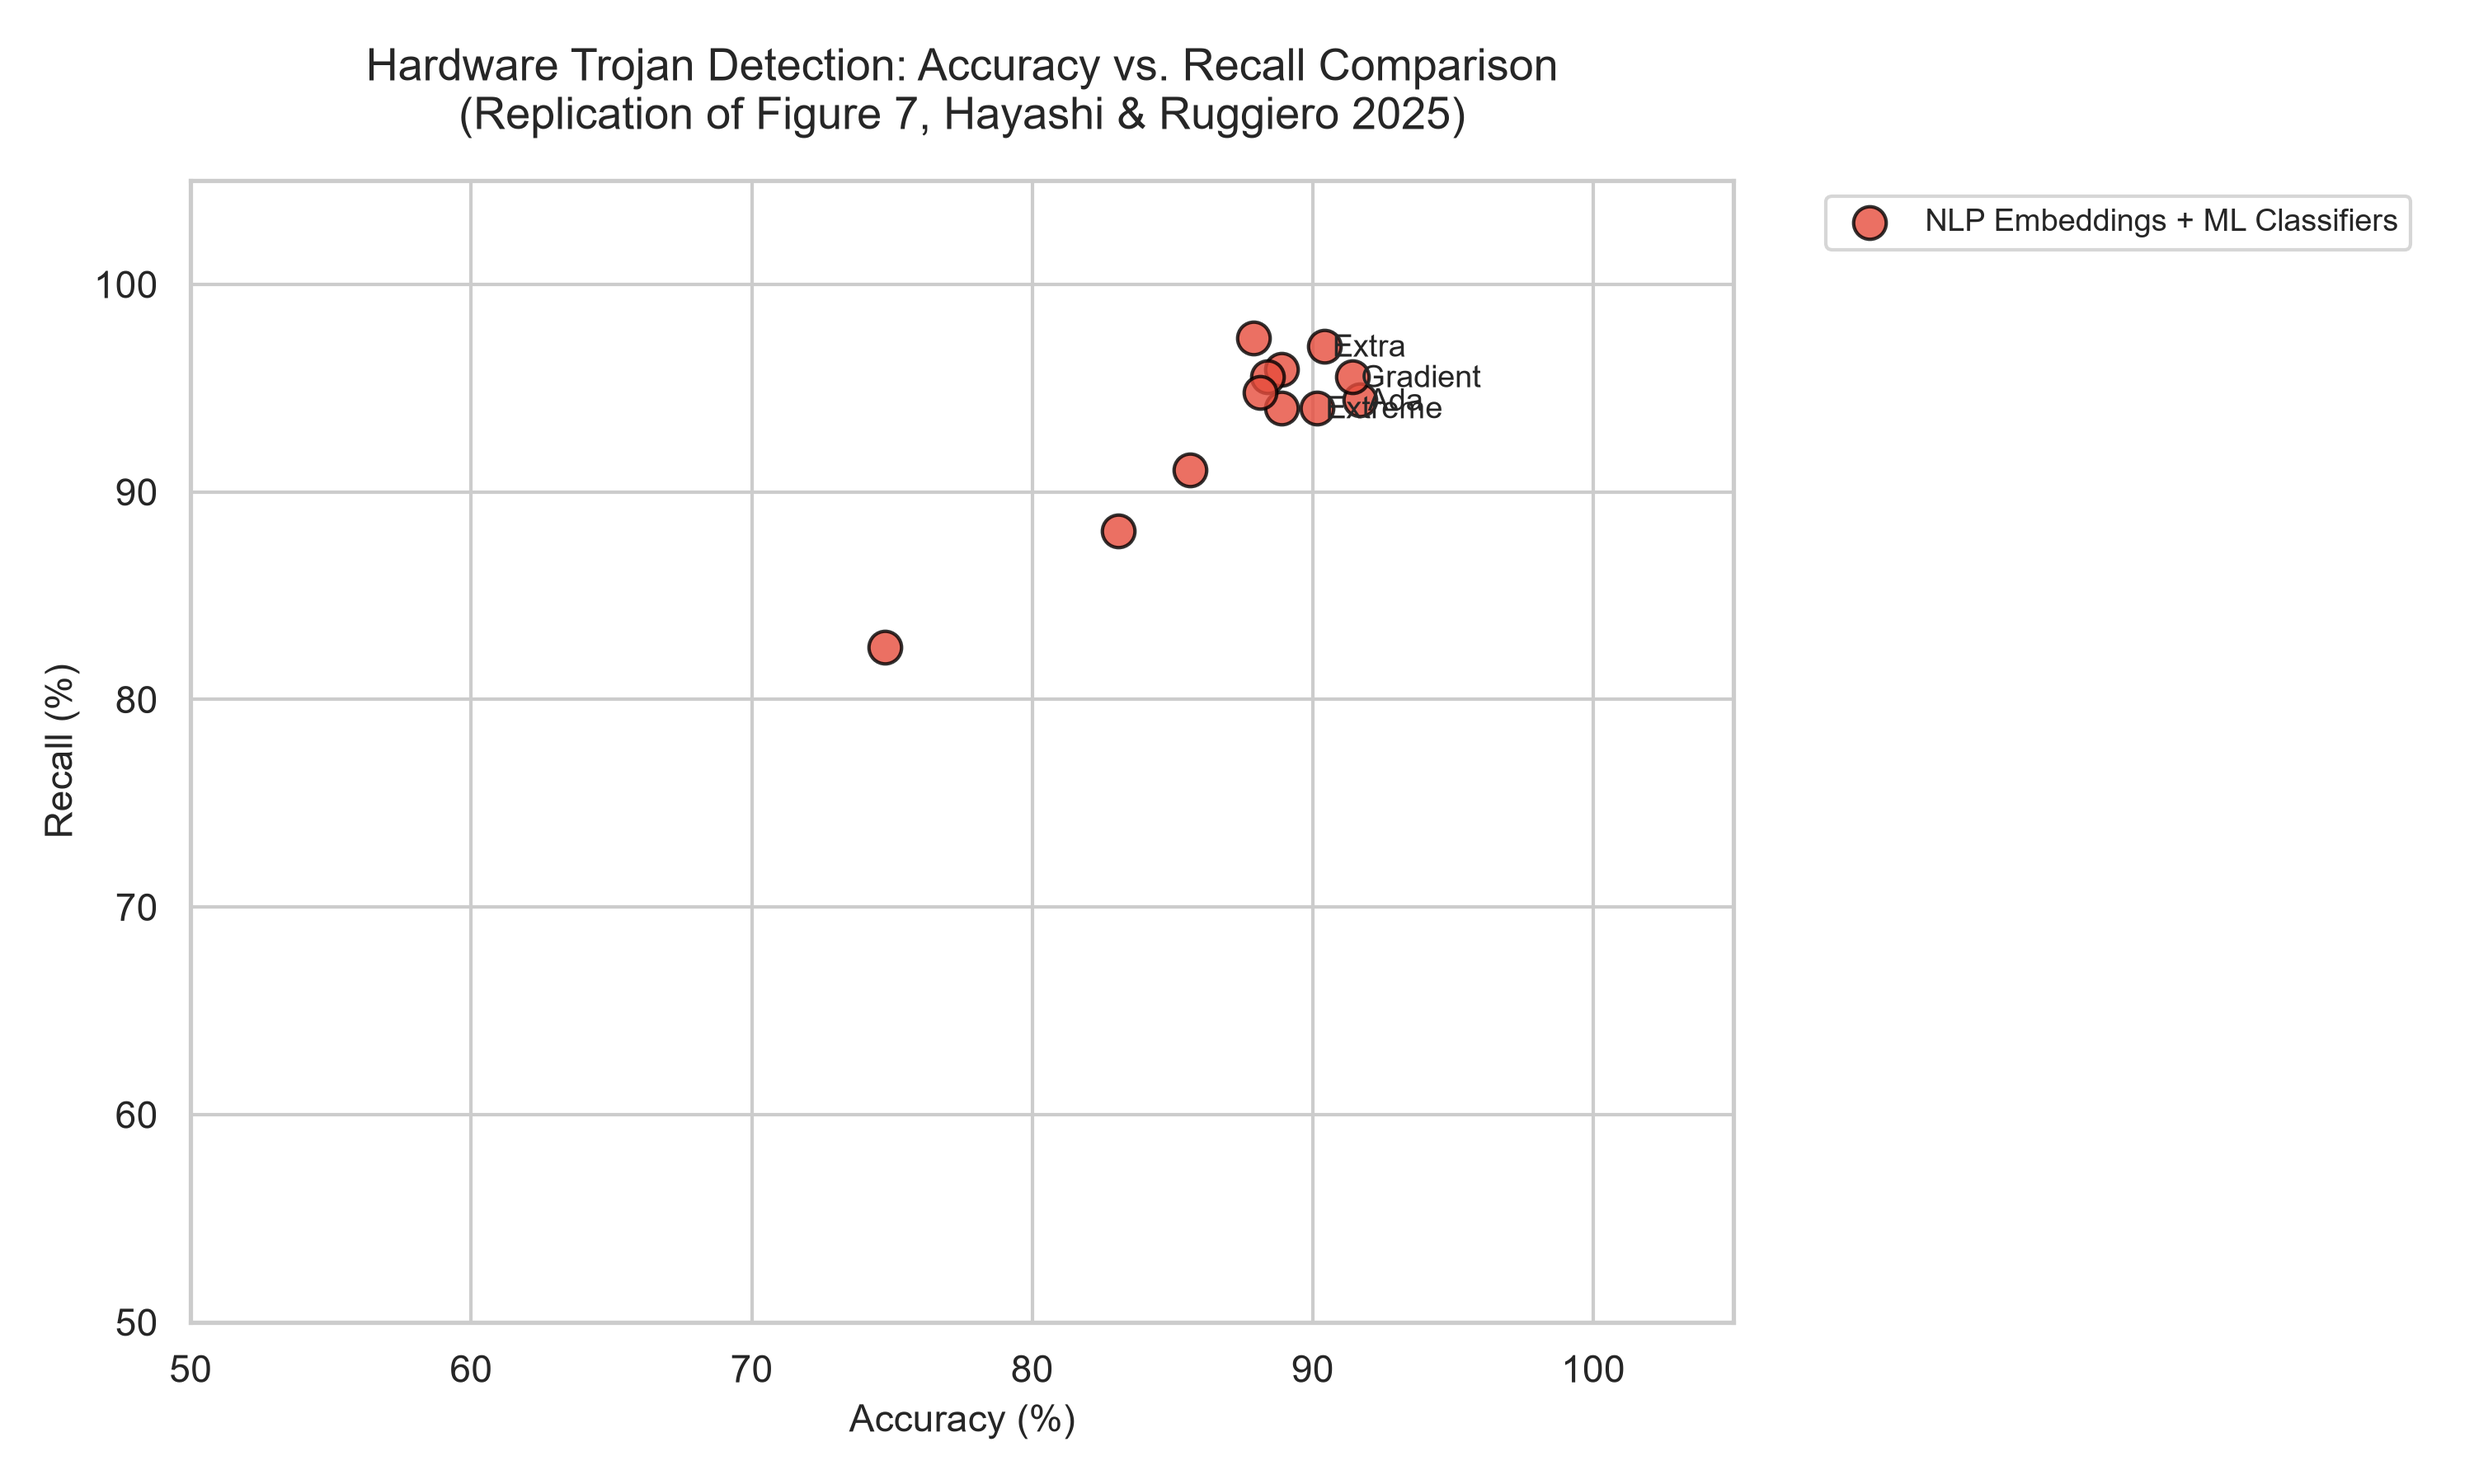
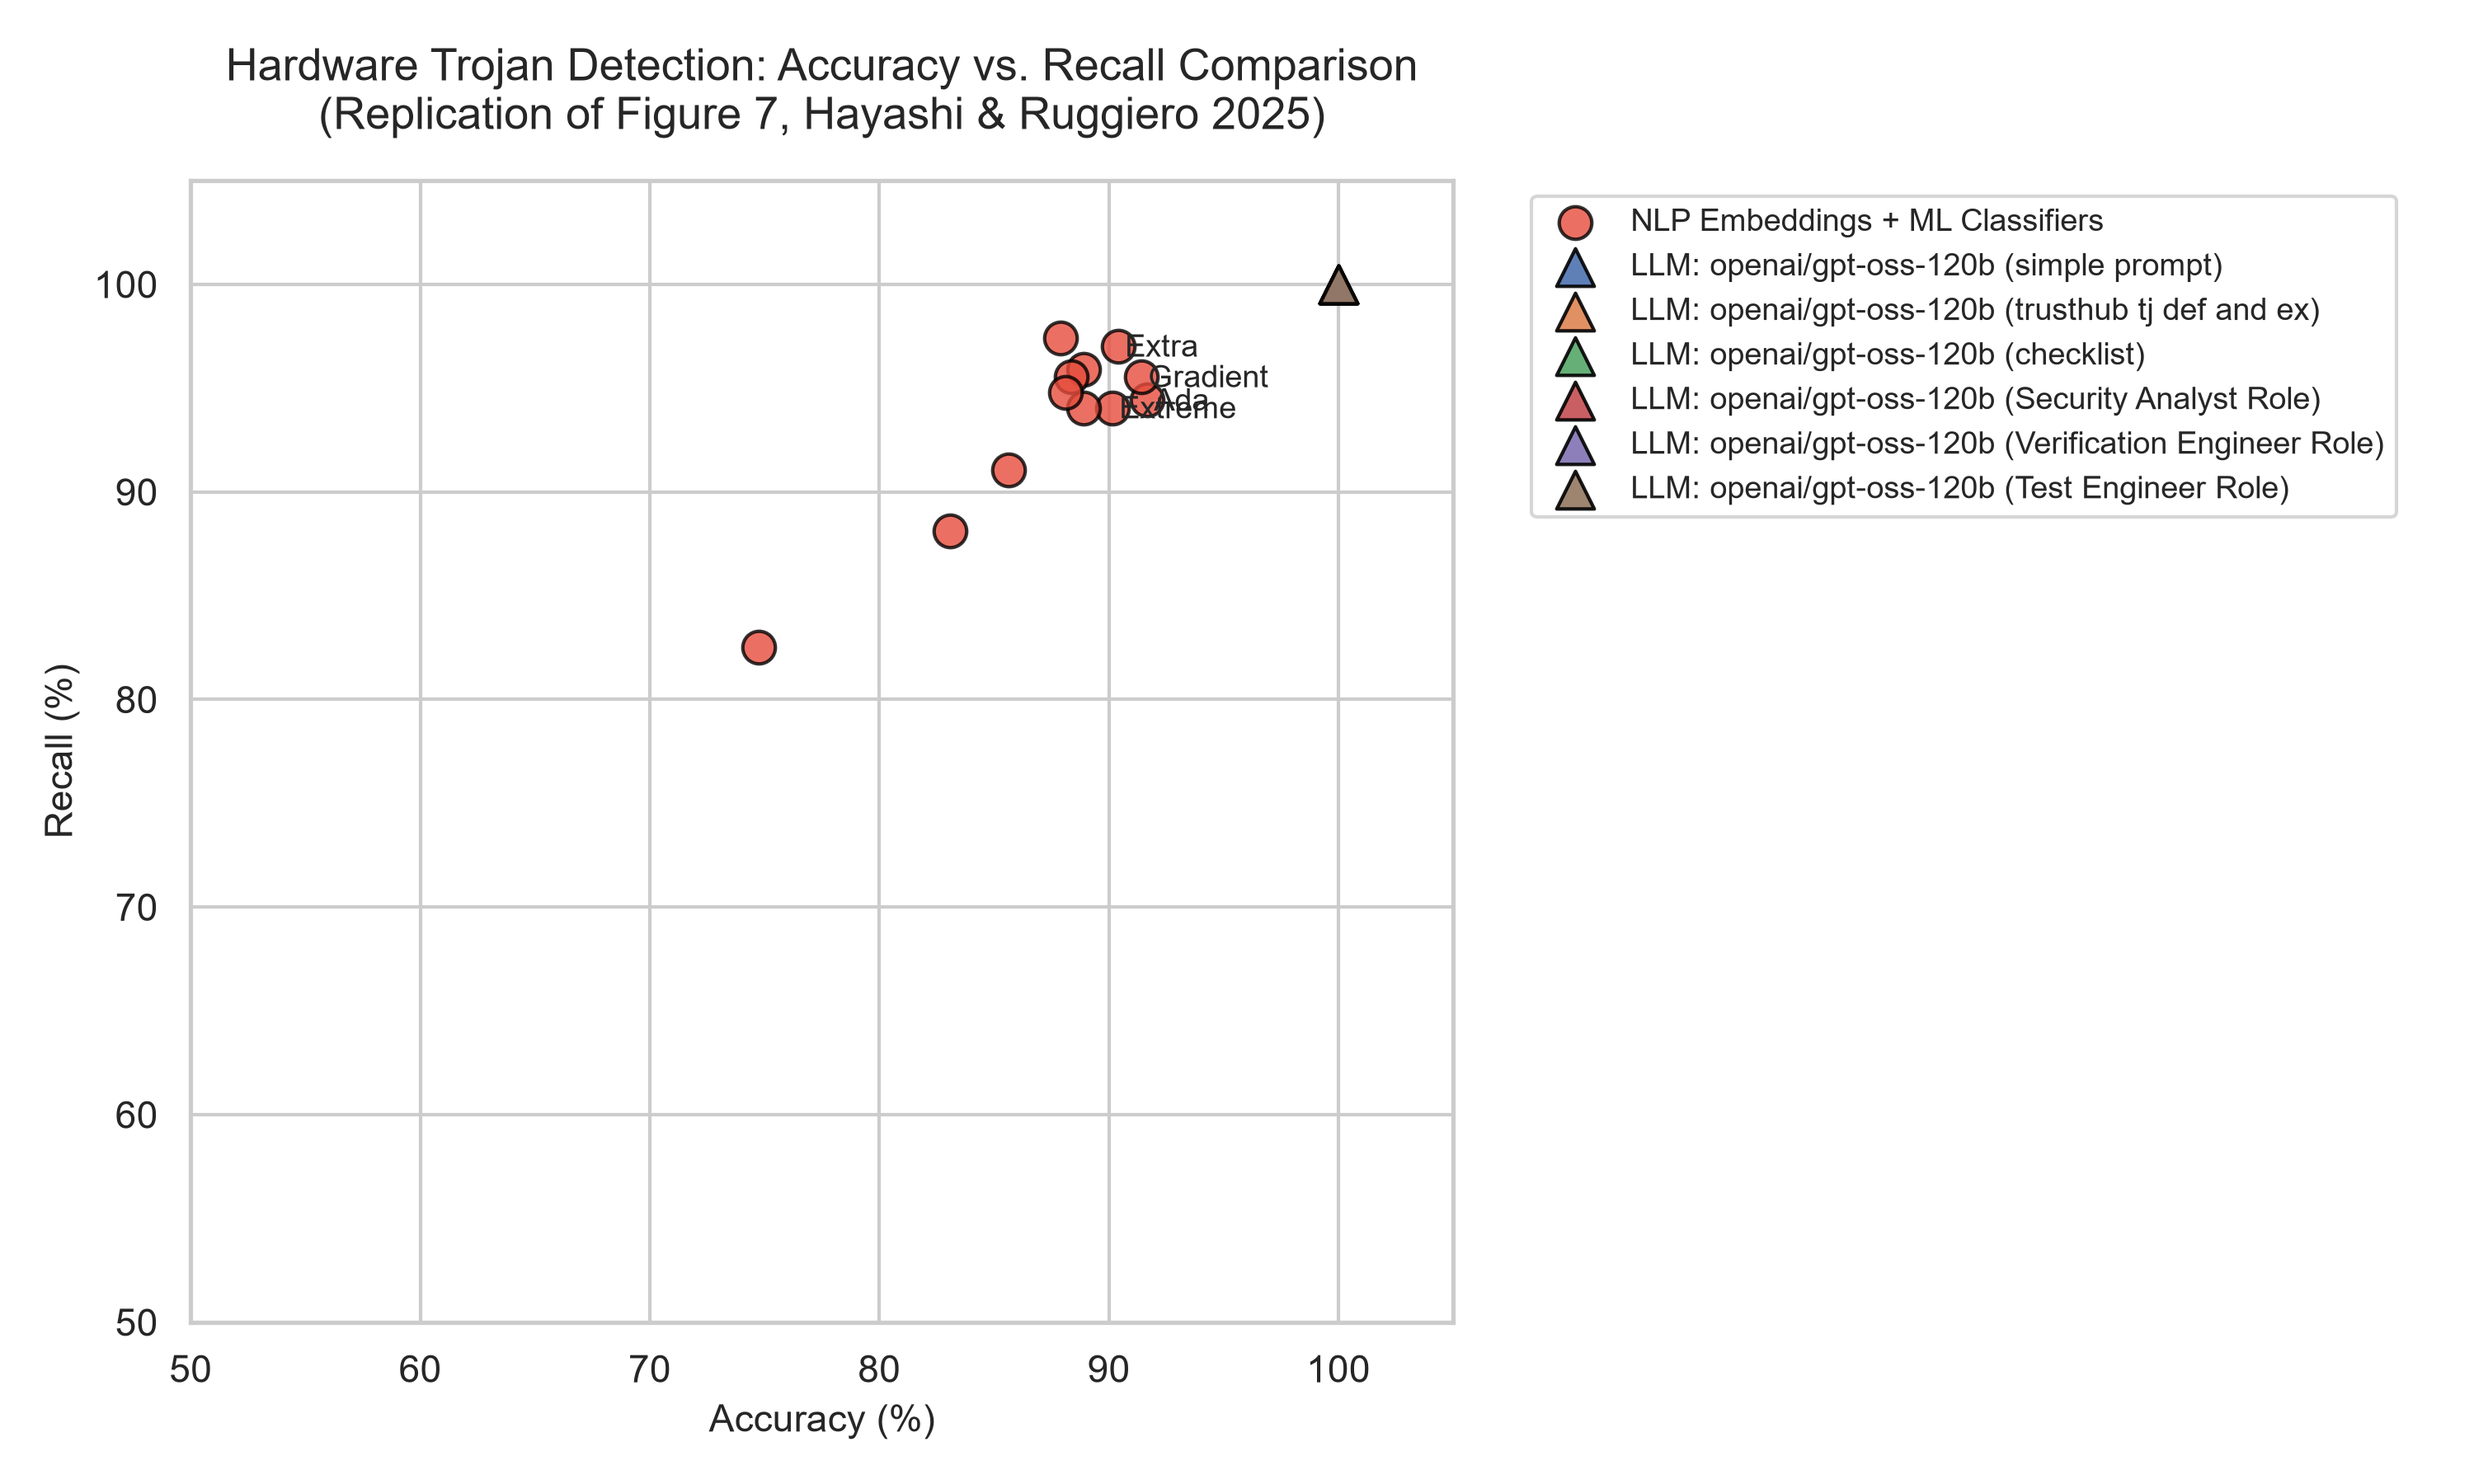
Add Groq 120B LLM evaluation results and update Figure 7 plot

diff --git a/code/src/llm_eval/evaluator.py b/code/src/llm_eval/evaluator.py
@@ -5,13 +5,18 @@ Implements and evaluates the 4 prompt strategies from Appendix A:
 2. TrustHub Definition & Example
 3. Checklist-Based Review (ISO/IEC 20246:2017)
 4. Role-Playing / Perspective-Based Review (Security Analyst, Verification Eng, Test Eng)
+
+Supports local Ollama as well as cloud OpenAI-compatible APIs (e.g., Groq).
 """
 
+import os
 import re
-from typing import Dict, List, Tuple, Any
+import time
+from pathlib import Path
+from typing import Dict, Any, Optional
 import pandas as pd
 import requests
-from sklearn.metrics import accuracy_score, recall_score, precision_score, f1_score
+from sklearn.metrics import accuracy_score, recall_score, precision_score, f1_score, balanced_accuracy_score
 from tabulate import tabulate
 
 from src.llm_eval.prompts import (
@@ -27,86 +32,153 @@ from src.llm_eval.prompts import (
 )
 
 
+def _load_dotenv():
+    """Loads .env from current or parent directory if present."""
+    for env_path in (Path(".env"), Path("../.env")):
+        if env_path.exists():
+            for line in env_path.read_text(encoding="utf-8", errors="ignore").splitlines():
+                line = line.strip()
+                if line and not line.startswith("#") and "=" in line:
+                    k, v = line.split("=", 1)
+                    os.environ.setdefault(k.strip(), v.strip())
+
+
+def _parse_binary_prediction(content: str) -> Optional[int]:
+    """Extracts 0 or 1 cleanly from an LLM response."""
+    text = content.strip()
+    if text in ("0", "1"):
+        return int(text)
+    numbers = re.findall(r"\b[01]\b", text)
+    if numbers:
+        return int(numbers[-1])
+    low = text.lower()
+    if "no trojan" in low or "clean" in low or "benign" in low:
+        return 0
+    if "trojan" in low or "malicious" in low:
+        return 1
+    return None
+
+
 class LLMEvaluator:
     def __init__(
-        self, 
-        model_name: str = "qwen2.5:3b", 
-        host: str = "http://localhost:11434"
+        self,
+        model_name: str = "qwen2.5:3b",
+        provider: str = "ollama",
+        host: str = "http://localhost:11434",
+        api_key: Optional[str] = None,
+        max_code_chars: int = 12000,
     ):
+        _load_dotenv()
         self.model_name = model_name
-        self.api_url = f"{host}/api/chat"
+        self.provider = provider.lower()
+        self.max_code_chars = max_code_chars
 
-    def predict_single(self, system_prompt: str, user_prompt: str) -> int:
-        """
-        Sends code + prompt to local Ollama and extracts binary 0 or 1 classification.
-        """
+        if self.provider == "groq":
+            self.api_url = "https://api.groq.com/openai/v1/chat/completions"
+            self.api_key = api_key or os.environ.get("GROQ_API_KEY", "")
+            if not self.api_key:
+                raise ValueError("GROQ_API_KEY not found in environment or .env")
+        elif self.provider == "openai":
+            self.api_url = f"{host.rstrip('/')}/v1/chat/completions"
+            self.api_key = api_key or os.environ.get("OPENAI_API_KEY", "")
+        else:
+            self.api_url = f"{host.rstrip('/')}/api/chat"
+            self.api_key = ""
+
+    def _call_api(self, system_prompt: str, user_prompt: str, max_retries: int = 6) -> str:
+        """Calls the configured LLM backend with automatic 429 rate-limit backoff."""
+        if self.provider in ("groq", "openai"):
+            headers = {
+                "Authorization": f"Bearer {self.api_key}",
+                "Content-Type": "application/json",
+            }
+            payload = {
+                "model": self.model_name,
+                "messages": [
+                    {"role": "system", "content": system_prompt},
+                    {"role": "user", "content": user_prompt},
+                ],
+                "temperature": 0.0,
+                "max_tokens": 256,
+            }
+            for attempt in range(max_retries):
+                resp = requests.post(self.api_url, headers=headers, json=payload, timeout=60)
+                if resp.status_code == 429:
+                    wait = float(resp.headers.get("Retry-After", 10 + 5 * attempt))
+                    time.sleep(min(wait, 65))
+                    continue
+                resp.raise_for_status()
+                # Proactive pacing if remaining tokens are below 2,000
+                rem_tok = resp.headers.get("x-ratelimit-remaining-tokens")
+                if rem_tok is not None and int(rem_tok) < 2000:
+                    time.sleep(8)
+                return resp.json()["choices"][0]["message"].get("content", "") or ""
+            raise RuntimeError("Exceeded max retries due to rate limiting (429).")
+
+        # Local Ollama
         payload = {
             "model": self.model_name,
             "messages": [
                 {"role": "system", "content": system_prompt},
-                {"role": "user", "content": user_prompt}
+                {"role": "user", "content": user_prompt},
             ],
             "stream": False,
-            "options": {
-                "temperature": 0.0, # Deterministic zero-shot classification
-            }
+            "options": {"temperature": 0.0},
         }
+        resp = requests.post(self.api_url, json=payload, timeout=90)
+        resp.raise_for_status()
+        return resp.json().get("message", {}).get("content", "")
 
+    def predict_single(self, system_prompt: str, user_prompt: str) -> int:
+        """Sends code + prompt to the LLM and extracts binary 0 or 1 classification."""
         try:
-            response = requests.post(self.api_url, json=payload, timeout=60)
-            response.raise_for_status()
-            content = response.json().get("message", {}).get("content", "").strip()
-
-            # Parse integer 0 or 1 from response
-            numbers = re.findall(r"\b[01]\b", content)
-            if numbers:
-                return int(numbers[-1])
-            # Fallback heuristic: check keywords
-            if "1" in content or "trojan" in content.lower() or "malicious" in content.lower():
-                return 1
-            return 0
+            content = self._call_api(system_prompt, user_prompt)
+            parsed = _parse_binary_prediction(content)
+            return parsed if parsed is not None else 0
         except Exception as e:
-            print(f"[LLM Evaluator] Request error: {e}")
+            print(f"\n[LLM Evaluator] Request error: {e}")
             return 0
 
     def evaluate_strategy(
-        self, 
-        df: pd.DataFrame, 
-        strategy_name: str, 
-        system_prompt: str, 
-        user_prompt_template: str
+        self,
+        df: pd.DataFrame,
+        strategy_name: str,
+        system_prompt: str,
+        user_prompt_template: str,
     ) -> Dict[str, Any]:
-        """
-        Evaluates a single prompt strategy over the dataset.
-        """
+        """Evaluates a single prompt strategy over the dataset."""
         y_true = df["label"].tolist()
         y_pred = []
 
         print(f" -> Evaluating [{strategy_name}] on {len(df)} samples...", end="", flush=True)
-        for idx, row in df.iterrows():
-            user_msg = user_prompt_template.format(verilog_code=row["code"])
+        for _, row in df.iterrows():
+            code_snippet = row["code"][:self.max_code_chars]
+            user_msg = user_prompt_template.format(verilog_code=code_snippet)
             pred = self.predict_single(system_prompt, user_msg)
             y_pred.append(pred)
-        print(" [Done]")
+        print(" [Done]", flush=True)
 
         acc = accuracy_score(y_true, y_pred) * 100
+        bal_acc = balanced_accuracy_score(y_true, y_pred) * 100
         rec = recall_score(y_true, y_pred, zero_division=0) * 100
+        prec = precision_score(y_true, y_pred, zero_division=0) * 100
         f1 = f1_score(y_true, y_pred, zero_division=0) * 100
 
         return {
             "Approach": f"{self.model_name} ({strategy_name})",
             "Accuracy": f"{acc:.2f}%",
+            "Balanced Acc": f"{bal_acc:.2f}%",
             "Recall": f"{rec:.2f}%",
+            "Precision": f"{prec:.2f}%",
             "f1-score": f"{f1:.2f}%",
             "_acc": acc,
+            "_bal_acc": bal_acc,
             "_rec": rec,
-            "_f1": f1
+            "_f1": f1,
         }
 
     def run_all_strategies(self, df: pd.DataFrame) -> pd.DataFrame:
-        """
-        Runs all 4 prompting strategies and prints comparison table (Table 6).
-        """
+        """Runs all prompting strategies and prints comparison table (Table 6)."""
         strategies = [
             ("simple prompt", SIMPLE_SYSTEM_PROMPT, SIMPLE_USER_PROMPT_TEMPLATE),
             ("trusthub tj def and ex", TRUSTHUB_SYSTEM_PROMPT, TRUSTHUB_USER_PROMPT_TEMPLATE),
@@ -122,8 +194,13 @@ class LLMEvaluator:
             results.append(res)
 
         res_df = pd.DataFrame(results)
-        print("\n" + "="*70)
+        print("\n" + "=" * 70)
         print(" TABLE 6: PERFORMANCE COMPARISON OF LLM PROMPTS")
-        print("="*70)
-        print(tabulate(res_df[["Approach", "Accuracy", "Recall", "f1-score"]], headers="keys", tablefmt="github", showindex=False))
+        print("=" * 70)
+        print(tabulate(
+            res_df[["Approach", "Accuracy", "Balanced Acc", "Recall", "Precision", "f1-score"]],
+            headers="keys",
+            tablefmt="github",
+            showindex=False,
+        ))
         return res_df

diff --git a/code/main.py b/code/main.py
@@ -22,7 +22,8 @@ def main():
     parser = argparse.ArgumentParser(description="Hardware Trojan Detection Framework (IEEE Access 2025)")
     parser.add_argument("--generate", action="store_true", help="Generate synthetic trojans using local Ollama LLM")
     parser.add_argument("--eval-llm", action="store_true", help="Run LLM prompt engineering detection (Approach 2)")
-    parser.add_argument("--model-name", type=str, default="qwen2.5:3b", help="Ollama model name (default: qwen2.5:3b)")
+    parser.add_argument("--provider", type=str, default="ollama", choices=["ollama", "groq", "openai"], help="LLM API provider (default: ollama)")
+    parser.add_argument("--model-name", type=str, default="qwen2.5:3b", help="Model name (e.g., qwen2.5:3b or openai/gpt-oss-120b)")
     parser.add_argument("--n-splits", type=int, default=5, help="Number of CV folds (default: 5, paper uses 10)")
     parser.add_argument("--llm-samples", type=int, default=20, help="Number of samples to evaluate for LLM (default: 20 balanced, 0 for all)")
     args = parser.parse_args()
@@ -94,8 +95,10 @@ def main():
             eval_df = df
             print(f"[LLM Eval] Evaluating full dataset ({len(eval_df)} samples)")
 
-        evaluator = LLMEvaluator(model_name=args.model_name)
+        evaluator = LLMEvaluator(model_name=args.model_name, provider=args.provider)
         llm_results = evaluator.run_all_strategies(eval_df)
+        llm_results.to_csv("results/llm_results.csv", index=False)
+        print("[Main] Exported LLM results to 'results/llm_results.csv'")
 
     # 6. Recreate Figure 7 (Visualizations)
     print("\n" + "-" * 70)
